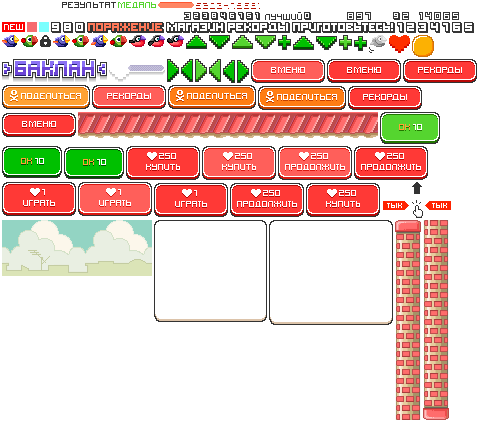
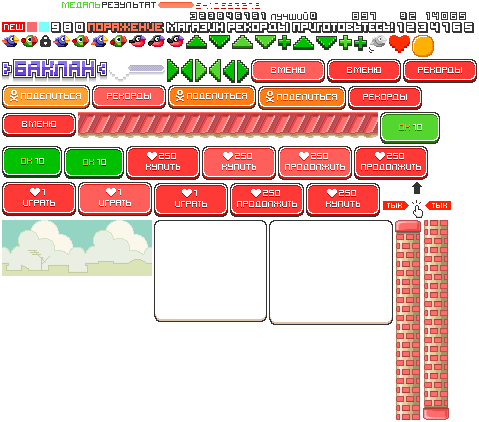
fd

diff --git a/flappy.js b/flappy.js
@@ -1,6 +1,6 @@
 /*global PIXI, Phaser */
 
-var VERSION = 109;
+var VERSION = 110;
 
 PIXI.scaleModes.DEFAULT = PIXI.scaleModes.NEAREST;
 PIXI.CanvasTinter.convertTintToImage = true;
@@ -212,7 +212,7 @@ function init() {
             '9' : 'font_r9.png'
         });
 
-        var res = '_,!?."()[]{}§@*/&#%`^+±<=>|~$0123456789:ABCDEFGHIJKLMNOPQRSTUVWXYZАБВГДЕЁЖЗИЙКЛМНОПРСТУФХЦЧШЩЪЫЬЮЯ';
+        var res = ' _,!?."()[]{}§@*/&#%`^+±<=>|~$0123456789:ABCDEFGHIJKLMNOPQRSTUVWXYZАБВГДЕЁЖЗИЙКЛМНОПРСТУФХЦЧШЩЪЫЬЮЯ';
         var d = {
             'info' : {
                 face : 'top',

diff --git a/flappy.html b/flappy.html
@@ -10,7 +10,7 @@
 	<link rel='stylesheet' type='text/css' href='flappy.css?105'/>
 	<script src="http://api.odnoklassniki.ru/js/fapi5.js"></script>
 	<script src="phaser.2.2.2.js"></script>
-	<script src="flappy.js?109"></script>
+	<script src="flappy.js?110"></script>
 </head>
 
 <body onload="init();">
